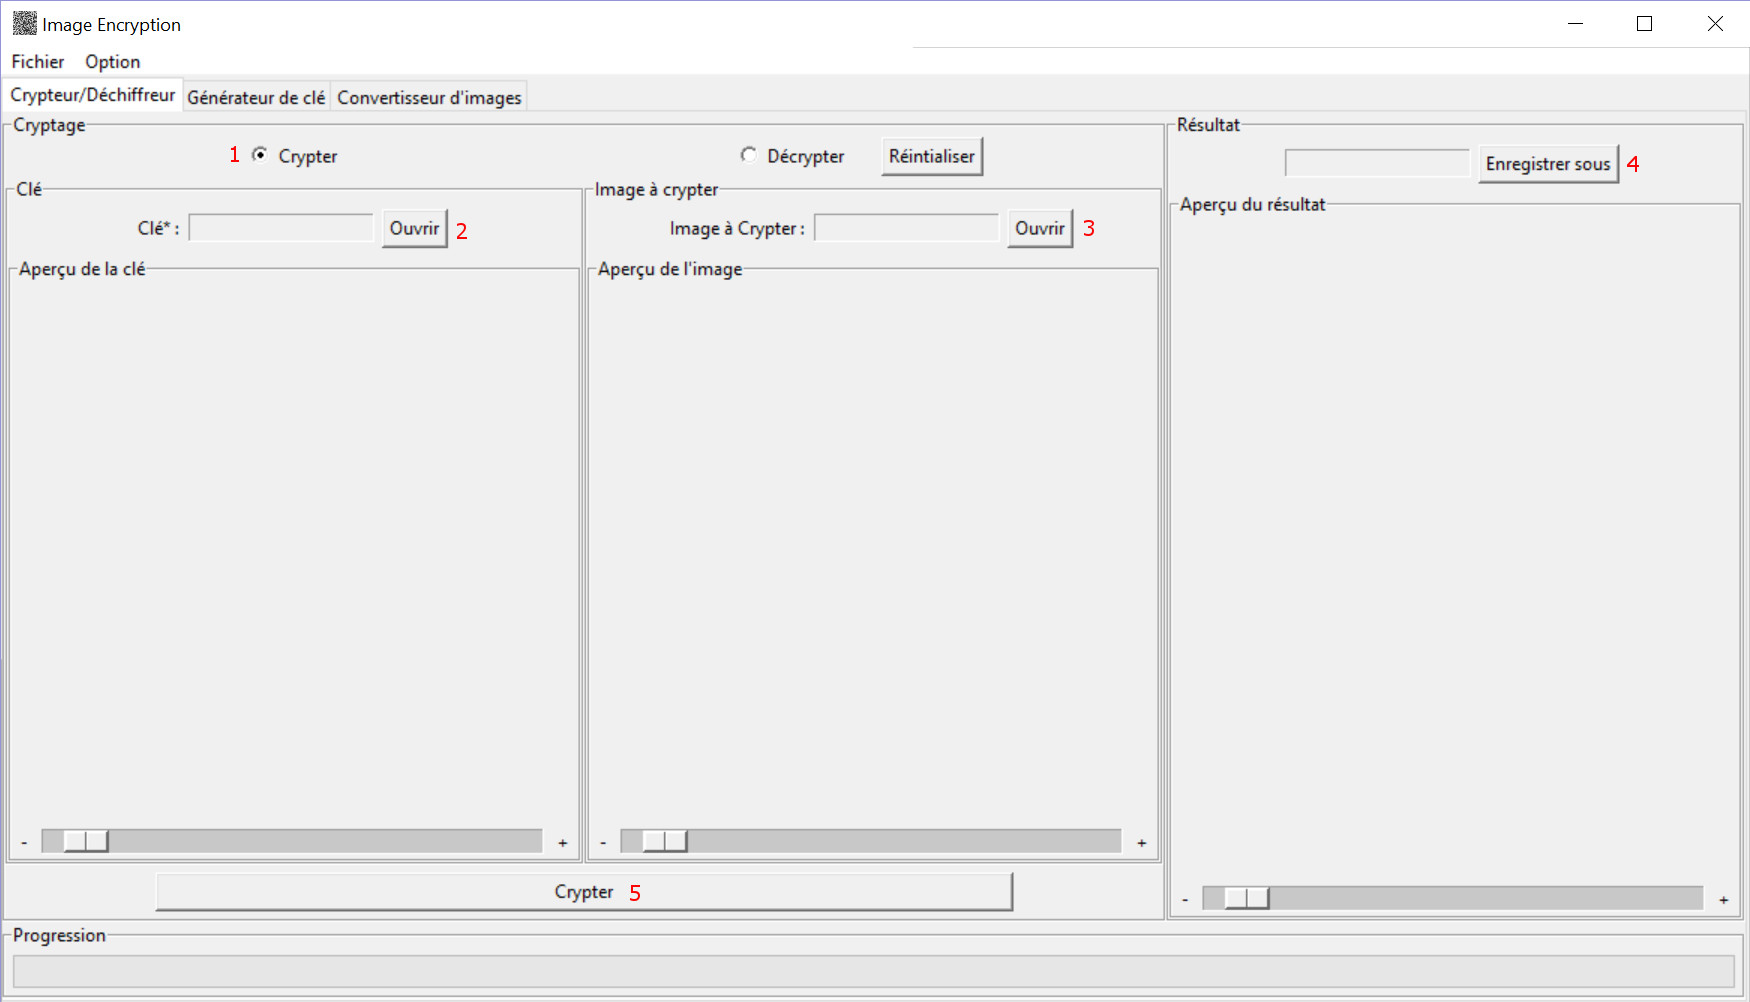
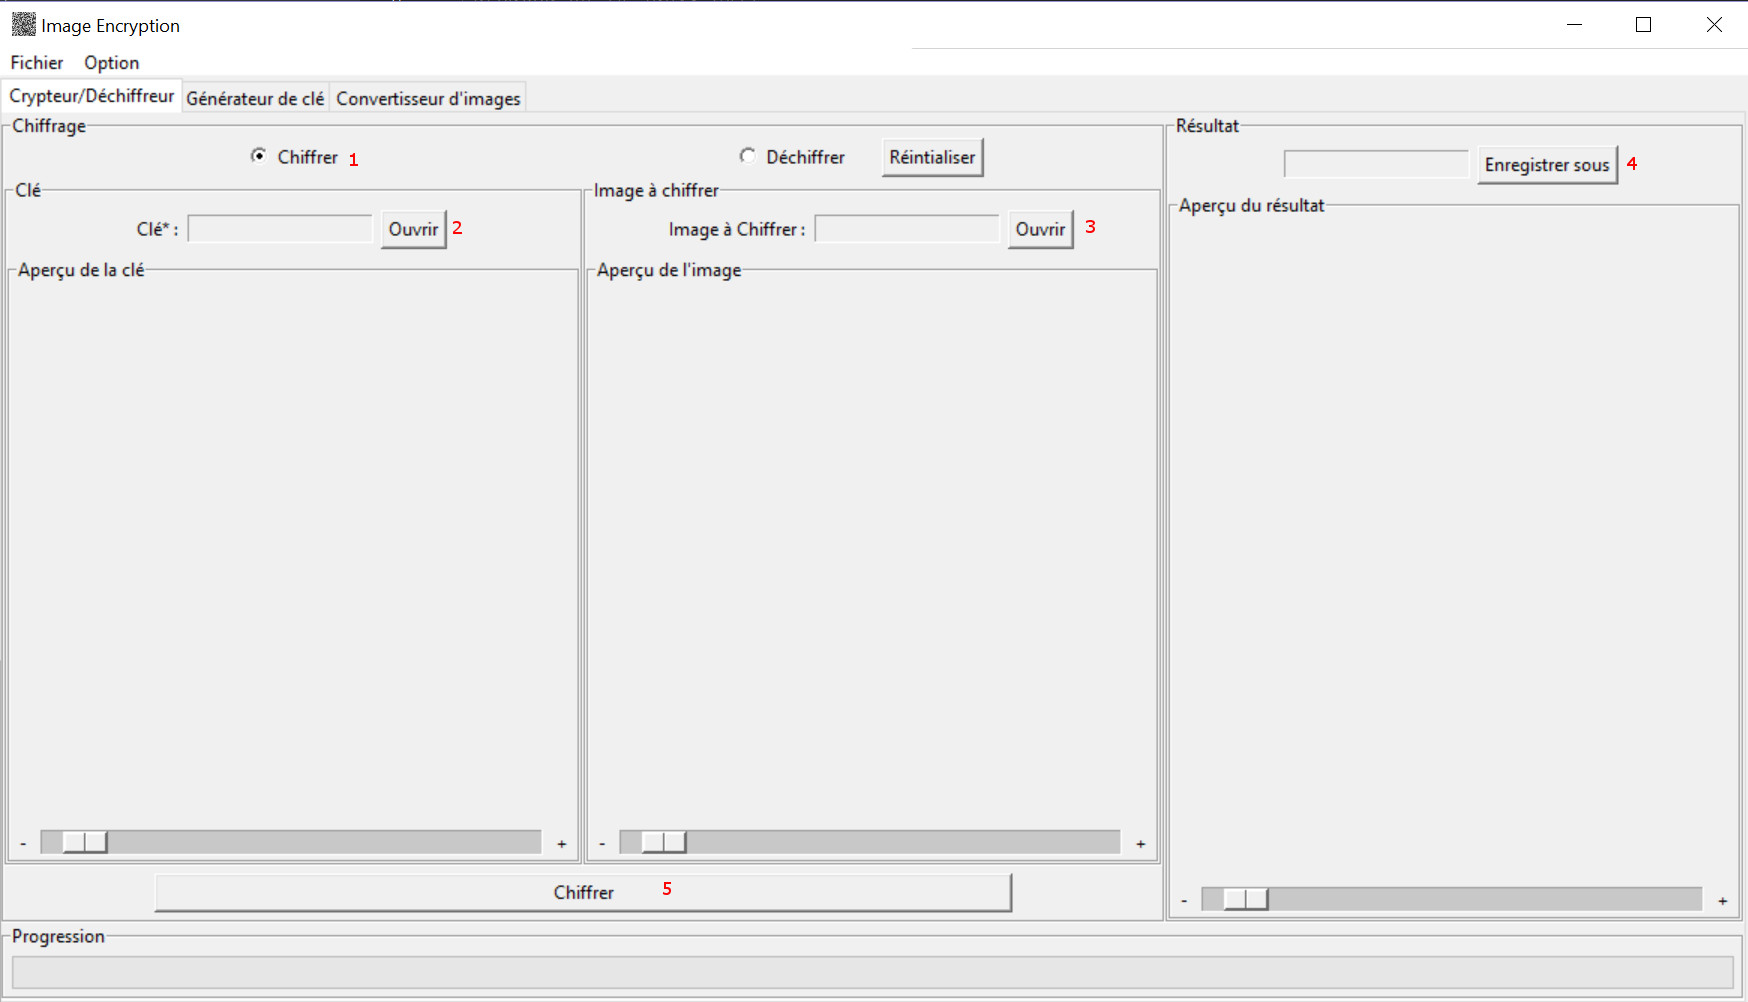
Correction de fautes d'orthographe et ajout de deux tooltips

diff --git a/Image-Encryption/plugins/Cypherer/view/Cypherer.py b/Image-Encryption/plugins/Cypherer/view/Cypherer.py
@@ -50,16 +50,15 @@ class Cypherer(Frame):
         self._progressBarValue= IntVar()
 
     def _createView(self):
-        # fixme: add tooltips
         #Frame
-        self._GenFrame = LabelFrame(self, text="Cryptage")
+        self._GenFrame = LabelFrame(self, text="Chiffrage")
         
         self._frame0 = Frame(self._GenFrame)
         
         self._KeyFrame = LabelFrame(self._GenFrame, text="Clé")
         self._frame1 = Frame(self._KeyFrame)
         self._KeyImage = ImageViewer(self._KeyFrame, text="Aperçu de la clé")
-        self._ImageFrame = LabelFrame(self._GenFrame, text="Image à crypter")
+        self._ImageFrame = LabelFrame(self._GenFrame, text="Image à chiffrer")
         self._frame2 = Frame(self._ImageFrame)
         self._Image = ImageViewer(self._ImageFrame, text="Aperçu de l'image")
         
@@ -81,28 +80,30 @@ class Cypherer(Frame):
         
         #Boutons
         self._keyButton = Button(self._frame1, text="Ouvrir")
-        ToolTips(self._keyButton, text="Permet d'indiquer le chemin de la clé qui va servir à crypter")
+        ToolTips(self._keyButton, text="Permet d'indiquer le chemin de la clé qui va servir à chiffrer")
         self._imgButton = Button(self._frame2, text="Ouvrir")
-        ToolTips(self._imgButton, text="Permet d'indiquer le chemin de l'image à crypter")
+        ToolTips(self._imgButton, text="Permet d'indiquer le chemin de l'image à chiffrer")
         self._rslButton = Button(self._frame3, text="Enregistrer sous")
-        ToolTips(self._rslButton, text="Permet d'indiquer le chemin où le résultat du cryptage va être sauvegarder")
-        self._cypherButton = Button(self._GenFrame, text="Crypter")
-        ToolTips(self._cypherButton, "Permet de lancer le cryptage de l'image avec ou sans clé")
+        ToolTips(self._rslButton, text="Permet d'indiquer le chemin où le résultat du chiffrage va être sauvegardé")
+        self._cypherButton = Button(self._GenFrame, text="Chiffrer")
+        ToolTips(self._cypherButton, "Permet de lancer le chiffrage de l'image avec ou sans clé")
         self._resetButton = Button(self._frame0, text=("Réintialiser"))
         ToolTips(self._resetButton, text="Permet de réintialiser tout les champs")
         
         #ProgressBar
         self._progressBar = Progressbar(self._ProgressFrame, variable=self._progressBarValue)
-        ToolTips(self._progressBar, text="La progression du Cryptage")
+        ToolTips(self._progressBar, text="La progression du Chiffrage")
         
         #RadioButton
-        self._byCypherButton = Radiobutton(self._GenFrame, text="Crypter", variable=self._byVar, value=False)
+        self._byCypherButton = Radiobutton(self._GenFrame, text="Chiffrer", variable=self._byVar, value=False)
+        ToolTips(self._byCypherButton, text="Utiliser le plugin pour chiffrer")
         self._byDecyphererButton = Radiobutton(self._frame0, text="Déchiffrer", variable=self._byVar, value=True)
+        ToolTips(self._byDecyphererButton, text="Utiliser le plugin pour déchiffrer")
         
         #Label
-        self._label = Label(self._frame2, text="Image à Crypter : ")
+        self._label = Label(self._frame2, text="Image à Chiffrer : ")
         self._labelKey = Label(self._frame1, text="Clé* : ")
-        ToolTips(self._labelKey, text="*: La clé n'est pas obligatoire lors du cryptage, elle sera générée automatiquement")
+        ToolTips(self._labelKey, text="*: La clé n'est pas obligatoire lors du chiffrage, elle sera générée automatiquement")
         
     def _placeComponents(self):
         
@@ -214,30 +215,30 @@ class Cypherer(Frame):
         self._reset()
         if self._byVar.get():
             self._cypherButton.config(command=self._decypher, text='Déchiffrer')
-            self._Image.config(text="Aperçu de l'image crypter")
+            self._Image.config(text="Aperçu de l'image chiffrée")
             self._label.config(text="Image à Déchiffrer : ")
             self._GenFrame.config(text="Déchiffrage")
             self._ImageFrame.config(text="Image à Déchiffrer")
             self._labelKey.config(text="Clé :")
             ToolTips(self._keyButton, text="Permet d'indiquer le chemin de la clé qui va servir à déchiffrer")
             ToolTips(self._imgButton, text="Permet d'indiquer le chemin de l'image à déchiffrer")
-            ToolTips(self._rslButton, text="Permet d'indiquer le chemin où le résultat du déchiffrage va être sauvegarder")
+            ToolTips(self._rslButton, text="Permet d'indiquer le chemin où le résultat du déchiffrage va être sauvegardé")
             ToolTips(self._progressBar, text="La progression du Déchiffrage")
             ToolTips(self._labelKey, text="Clé servant au Déchiffrage")
             ToolTips(self._cypherButton, "Permet de lancer le déchiffrement de l'image avec la clé transmise")
         else:
-            self._cypherButton.config(command=self._cypher, text='Crypter')
+            self._cypherButton.config(command=self._cypher, text='Chiffrer')
             self._Image.config(text="Aperçu de l'image")
-            self._label.config(text="Image à Crypter : ")
-            self._GenFrame.config(text="Cryptage")
+            self._label.config(text="Image à Chiffrer : ")
+            self._GenFrame.config(text="Chiffrage")
             self._labelKey.config(text="Clé* :")
-            self._ImageFrame.config(text="Image à Crypter")
-            ToolTips(self._keyButton, text="Permet d'indiquer le chemin de la clé qui va servir à crypter")
-            ToolTips(self._imgButton, text="Permet d'indiquer le chemin de l'image à crypter")
-            ToolTips(self._rslButton, text="Permet d'indiquer le chemin où le résultat du cryptage va être sauvegarder")
-            ToolTips(self._progressBar, text="La progression du Cryptage")
-            ToolTips(self._labelKey, text="*: La clé n'est pas obligatoire lors du cryptage elle sera générer automatiquement")
-            ToolTips(self._cypherButton, "Permet de lancer le cryptage de l'image avec ou sans clé")
+            self._ImageFrame.config(text="Image à Chiffrer")
+            ToolTips(self._keyButton, text="Permet d'indiquer le chemin de la clé qui va servir à chiffrer")
+            ToolTips(self._imgButton, text="Permet d'indiquer le chemin de l'image à chiffrer")
+            ToolTips(self._rslButton, text="Permet d'indiquer le chemin où le résultat du chiffrage va être sauvegardé")
+            ToolTips(self._progressBar, text="La progression du chiffrage")
+            ToolTips(self._labelKey, text="*: La clé n'est pas obligatoire lors du chiffrage, elle sera générée automatiquement")
+            ToolTips(self._cypherButton, "Permet de lancer le chiffrage de l'image avec ou sans clé")
             
     def _decypher(self):
         if self._model.imagePath is None or self._model.keyPath is None or self._rslVar.get() == '':
@@ -247,7 +248,7 @@ class Cypherer(Frame):
             
     def _cypher(self):
         if self._model.imagePath is None or self._rslVar.get() == '':
-            messagebox.showerror("Erreur", "Veuillez indiquer au minimum l'image à crypter ainsi que l'endroit où sauvegarder le résultat")
+            messagebox.showerror("Erreur", "Veuillez indiquer au minimum l'image à chiffrer ainsi que l'endroit où sauvegarder le résultat")
             return
         if self._model.keyPath is None:
             thread = threading.Thread(target=self._generateKey)
@@ -357,5 +358,5 @@ class Cypherer(Frame):
         Permet de signaler une erreur lors du cryptage
         :parem event: l'événement à l'origine de l'erreur
         """
-        messagebox.showerror("Erreur", "La taille de l'image et du masque ne correspondent pas veuillez réessayer")
+        messagebox.showerror("Erreur", "La taille de l'image et du masque ne correspondent pas, veuillez réessayer")
         self._switchButtonsState(NORMAL)

diff --git a/Image-Encryption/plugins/Generator/view/GeneratorView.py b/Image-Encryption/plugins/Generator/view/GeneratorView.py
@@ -167,7 +167,7 @@ class GeneratorView(Frame):
             self._model.getKey().save(self._picturePathVar.get())
             self._updateCanvasDisplay()
         except KeyError:
-            messagebox.showerror("Sauvegarde", "Sauvegarde échoué veuillez vérifier que le nom du fichier est correct")
+            messagebox.showerror("Sauvegarde", "La sauvegarde a échoué, veuillez vérifier que le nom du fichier est correct")
 
     def _validateEntry(self):
         """
@@ -178,7 +178,7 @@ class GeneratorView(Frame):
         w = int(self._widthVar.get())
         h = int(self._heightVar.get())
         if w <= 0 or h <= 0 or w % 2 != 0 or h % 2 != 0:
-            messagebox.showerror("Génération", "Veuillez entrer des entiers pair")
+            messagebox.showerror("Génération", "Veuillez entrer des entiers pairs")
             return False
         return True
 

diff --git a/Image-Encryption/plugins/Cypherer/Initializer.py b/Image-Encryption/plugins/Cypherer/Initializer.py
@@ -26,4 +26,4 @@ class Initializer(object):
         '''
         Récupérer le nom du plugin.
         '''
-        return "Crypteur/Déchiffreur"
+        return "Chiffreur/Déchiffreur"
